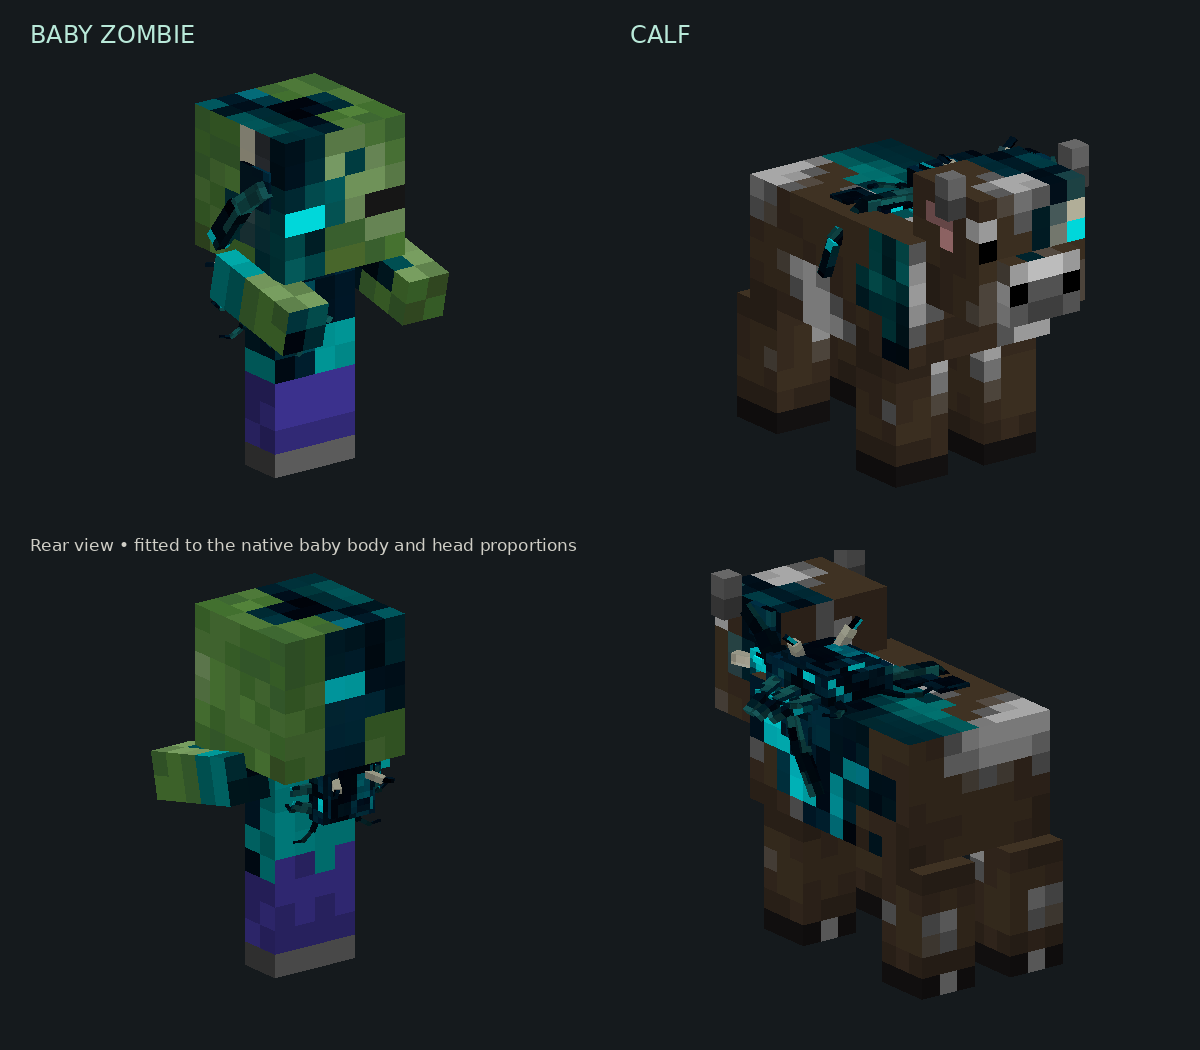
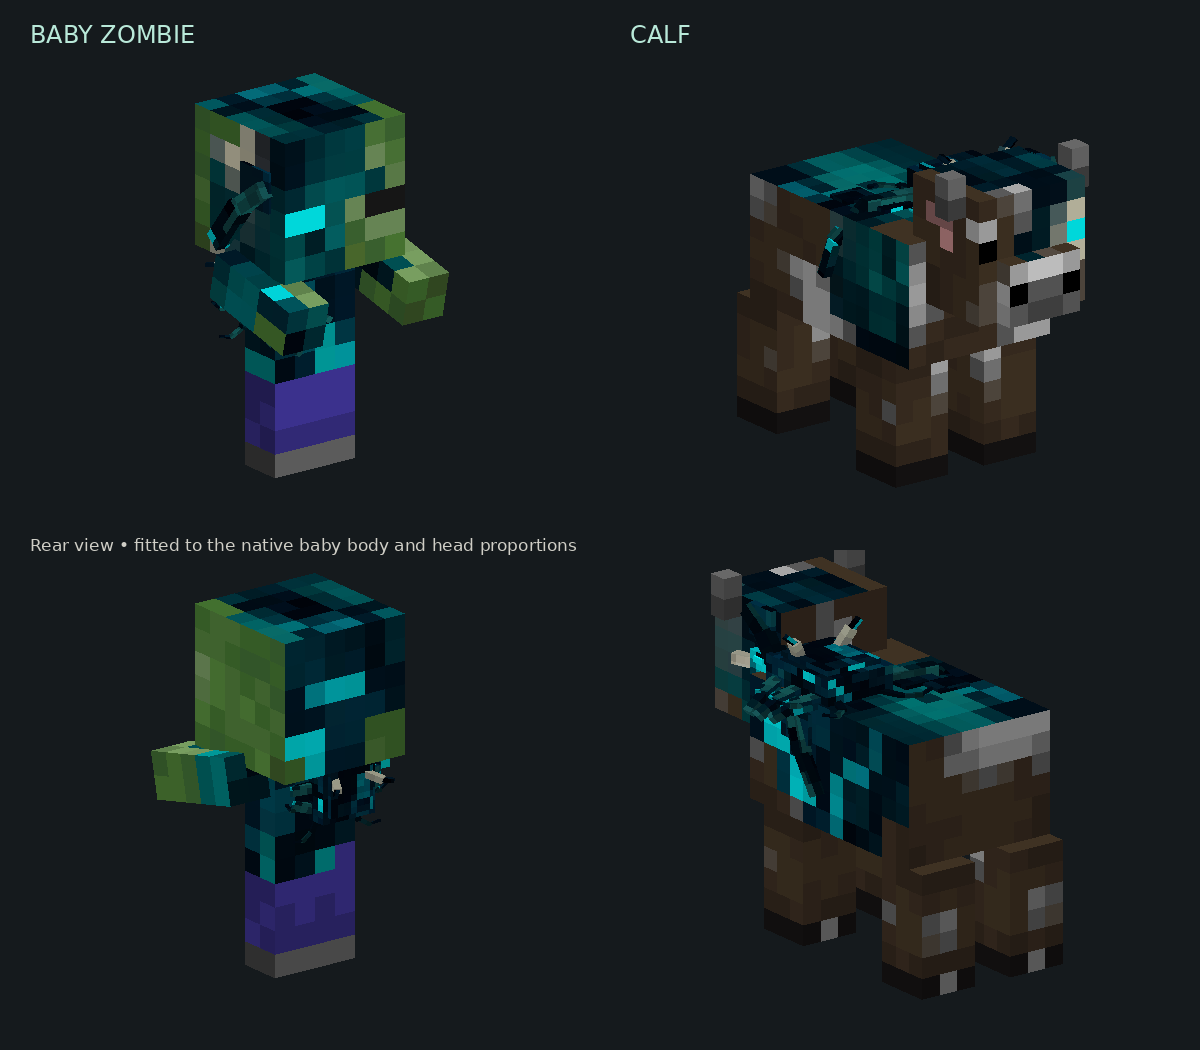
Expand infected host sculk coverage by roughly 55 percent

diff --git a/README.md b/README.md
@@ -109,8 +109,8 @@ infected cow attack. `/locate biome minecraft:deep_dark` and
 `/locate structure minecraft:ancient_city` help find natural habitat.
 
 Infected hosts keep their native skins beneath patches of sculk. Growth spreads
-from a zombie's shoulder across part of the face and shirt, or along a cow's
-spine and one flank. One eye turns cyan while the other stays normal. Raised
+from a zombie's shoulder across part of the face, shirt, and upper legs, or along
+a cow's spine, flanks, and temple. One eye turns cyan while the other stays normal. Raised
 roots and small sculk plates join these patches to the parasite embedded in the
 host. Most skin, clothing, coat markings, and legs remain visible.
 
